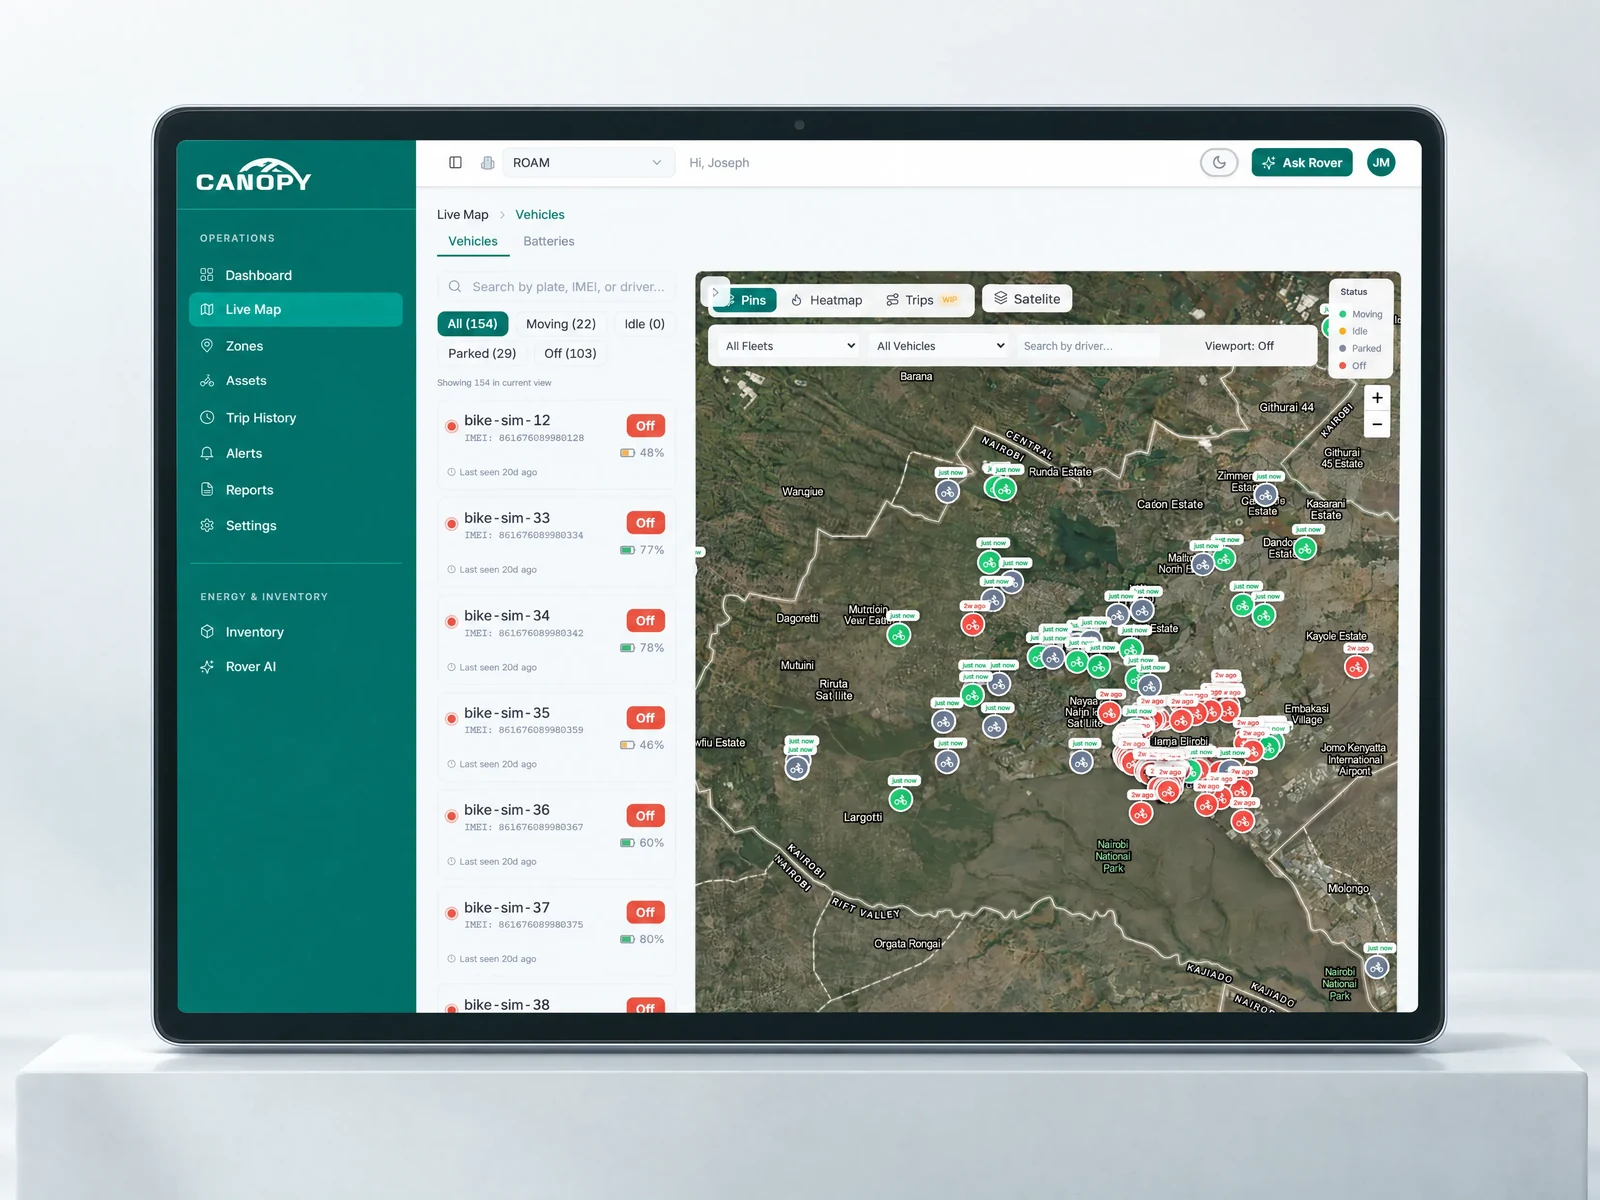
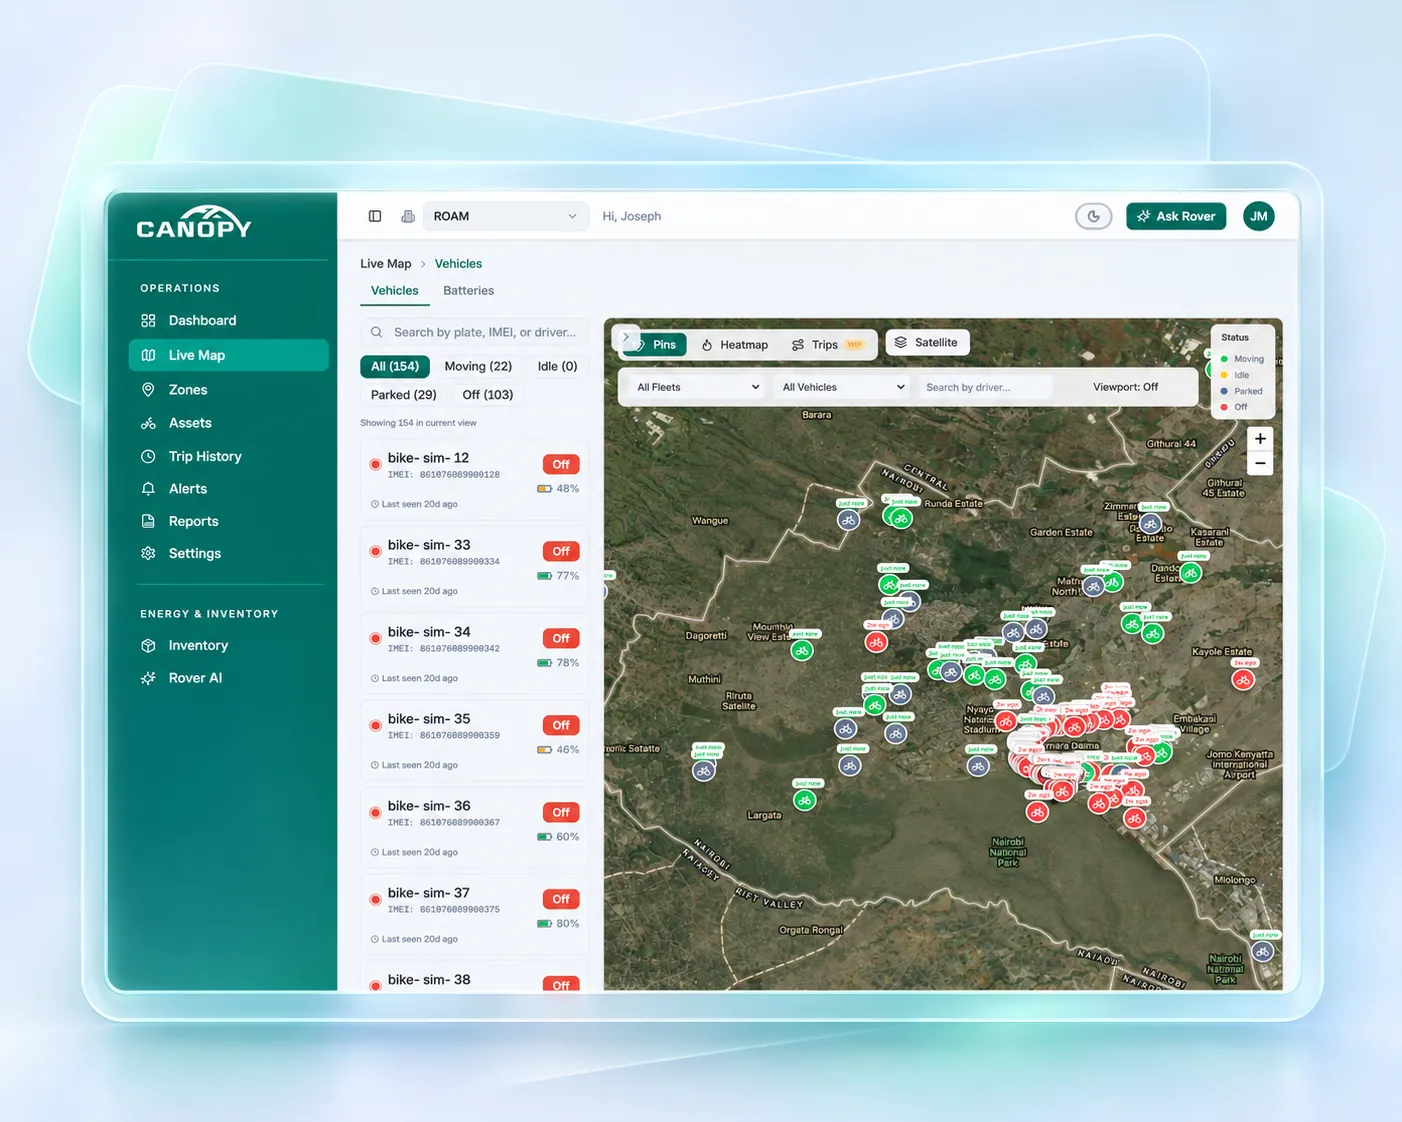
Features: new Geofencing image (live map with zones)
Claude-Session: https://claude.ai/code/session_019hg5JKm3Ajc1VUuZ1vD315

diff --git a/index.html b/index.html
@@ -1606,7 +1606,7 @@ p,h1,h2,h3,ul{margin:0}
     <div class="ft-grid-wrap">
         <article class="ft-card" style="--i:0">
           <div class="ft-text"><h3 class="ft-t" data-k="ft.1.t" data-l="Feature 1 title">Geofencing</h3><p class="ft-d" data-k="ft.1.d" data-l="Feature 1 text">Set boundaries. Know when vehicles enter or leave.</p></div>
-          <div class="ft-media has-media" data-slot="ft-geo" data-default-media="images/feat-geofencing.webp" data-slot-l="Geofencing — image / video (4:3)" data-slot-hint="A Canopy screen showing geofencing, 2400 × 1800 px (4:3). Videos loop muted." data-fit-option data-lazy data-slot-empty="Nothing uploaded yet. The site shows a simple teal line drawing until you add one."><picture class="default-pic"><img class="photo" src="images/feat-geofencing.webp" alt="The Canopy live map on a laptop: a list of vehicles with status and battery level beside a satellite map of Nairobi with vehicle pins" width="1600" height="1200" loading="lazy" decoding="async"></picture><div class="ft-fb" aria-hidden="true"><svg viewBox="0 0 400 300" preserveAspectRatio="xMidYMid slice"><g class="ft-grid" stroke="rgba(163,182,183,.07)" stroke-width="1"><path d="M0 50H400M0 100H400M0 150H400M0 200H400M0 250H400M50 0V300M100 0V300M150 0V300M200 0V300M250 0V300M300 0V300M350 0V300"/></g><path d="M-10 214C70 196 120 232 196 206S330 150 410 170" fill="none" stroke="rgba(163,182,183,.16)" stroke-width="5"/><path d="M118 -10C140 80 128 170 160 310" fill="none" stroke="rgba(163,182,183,.12)" stroke-width="4"/><path class="ft-zone" d="M122 92L238 70L300 136L262 226L150 232L104 160Z"/><path class="ft-zone-line" d="M122 92L238 70L300 136L262 226L150 232L104 160Z"/><g fill="#EAF2F1"><circle cx="170" cy="130" r="4"/><circle cx="214" cy="112" r="4"/><circle cx="238" cy="172" r="4"/><circle cx="182" cy="196" r="4"/></g><circle class="ft-ping" cx="318" cy="196" r="6"/><circle cx="318" cy="196" r="4.5" fill="#14B8A6"/></svg></div></div>
+          <div class="ft-media has-media" data-slot="ft-geo" data-default-media="images/feat-geofencing.webp" data-slot-l="Geofencing — image / video (4:3)" data-slot-hint="A Canopy screen showing geofencing, 2400 × 1800 px (4:3). Videos loop muted." data-fit-option data-lazy data-slot-empty="Nothing uploaded yet. The site shows a simple teal line drawing until you add one."><picture class="default-pic"><img class="photo" src="images/feat-geofencing.webp?v=2" alt="The Canopy live map: a list of vehicles with status and battery level beside a satellite map of Nairobi with zone boundaries and vehicle pins" width="1402" height="1122" loading="lazy" decoding="async"></picture><div class="ft-fb" aria-hidden="true"><svg viewBox="0 0 400 300" preserveAspectRatio="xMidYMid slice"><g class="ft-grid" stroke="rgba(163,182,183,.07)" stroke-width="1"><path d="M0 50H400M0 100H400M0 150H400M0 200H400M0 250H400M50 0V300M100 0V300M150 0V300M200 0V300M250 0V300M300 0V300M350 0V300"/></g><path d="M-10 214C70 196 120 232 196 206S330 150 410 170" fill="none" stroke="rgba(163,182,183,.16)" stroke-width="5"/><path d="M118 -10C140 80 128 170 160 310" fill="none" stroke="rgba(163,182,183,.12)" stroke-width="4"/><path class="ft-zone" d="M122 92L238 70L300 136L262 226L150 232L104 160Z"/><path class="ft-zone-line" d="M122 92L238 70L300 136L262 226L150 232L104 160Z"/><g fill="#EAF2F1"><circle cx="170" cy="130" r="4"/><circle cx="214" cy="112" r="4"/><circle cx="238" cy="172" r="4"/><circle cx="182" cy="196" r="4"/></g><circle class="ft-ping" cx="318" cy="196" r="6"/><circle cx="318" cy="196" r="4.5" fill="#14B8A6"/></svg></div></div>
         </article>
         <article class="ft-card" style="--i:1">
           <div class="ft-text"><h3 class="ft-t" data-k="ft.2.t" data-l="Feature 2 title">Trip history</h3><p class="ft-d" data-k="ft.2.d" data-l="Feature 2 text">Replay journeys. Understand every route.</p></div>
